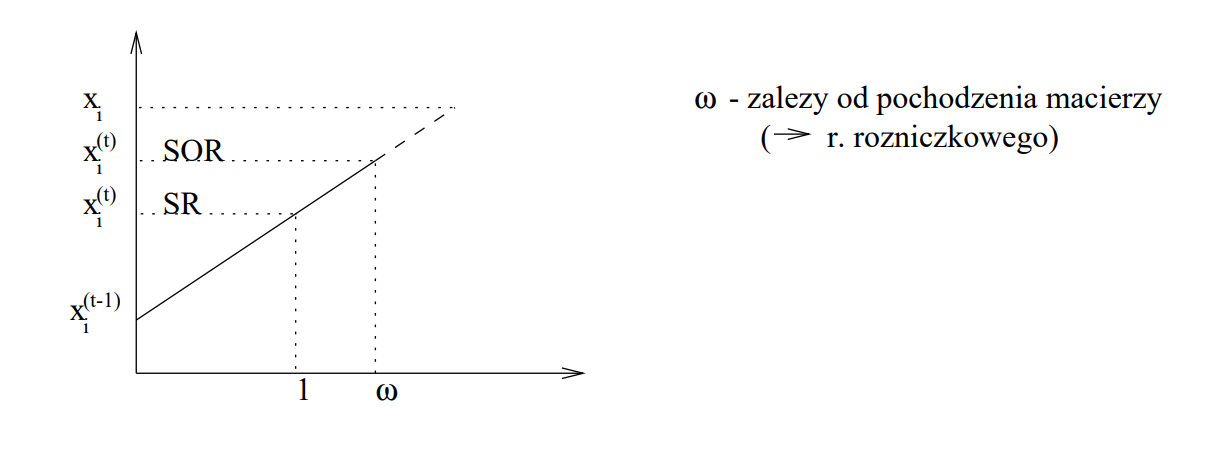
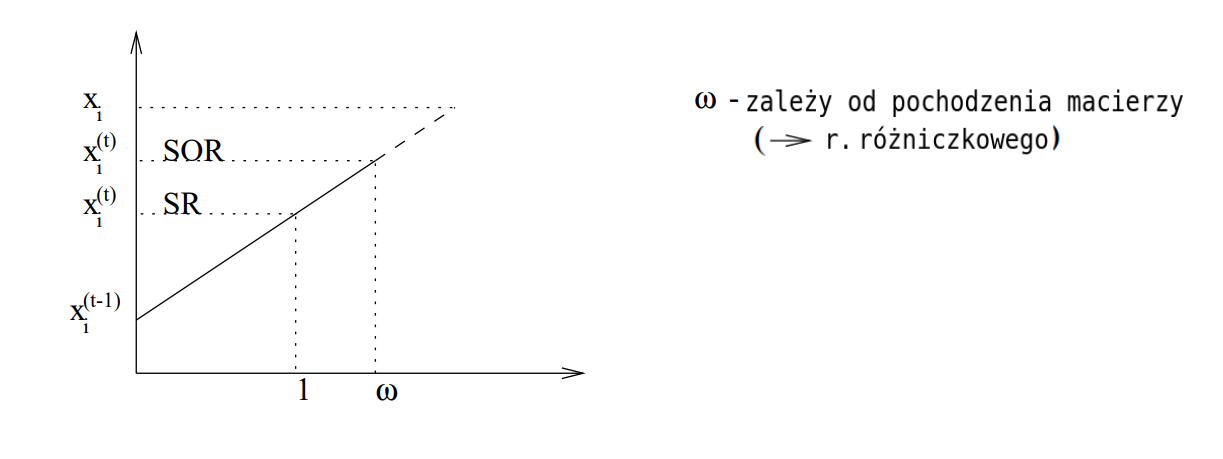
Updated picture misspellings

Changed region(s): [[0.5904, 0.183, 0.9632, 0.244], [0.5904, 0.2745, 0.87, 0.3355]]

diff --git a/12_iteracyjne/12_8_metoda_kolejnych_nadrelaksacji_sor.tex b/12_iteracyjne/12_8_metoda_kolejnych_nadrelaksacji_sor.tex
@@ -36,7 +36,7 @@ $$x^{(t+1)}_{i}=x^{(t)}_{i} + \underbrace{\frac{1}{a_{ii}}[b_i-\sum^{i-1}_{j=1} 
 \end{frame}
 
 \begin{frame}{}
-  interpretacja:
+  Interpretacja:
   Dla ważnych praktycznie klas macierzy znana jest optymalna wartość $\omega$
   \includegraphics[height=0.6\textheight, width=1\textwidth]{img/12/iteracja2}
 \end{frame}
